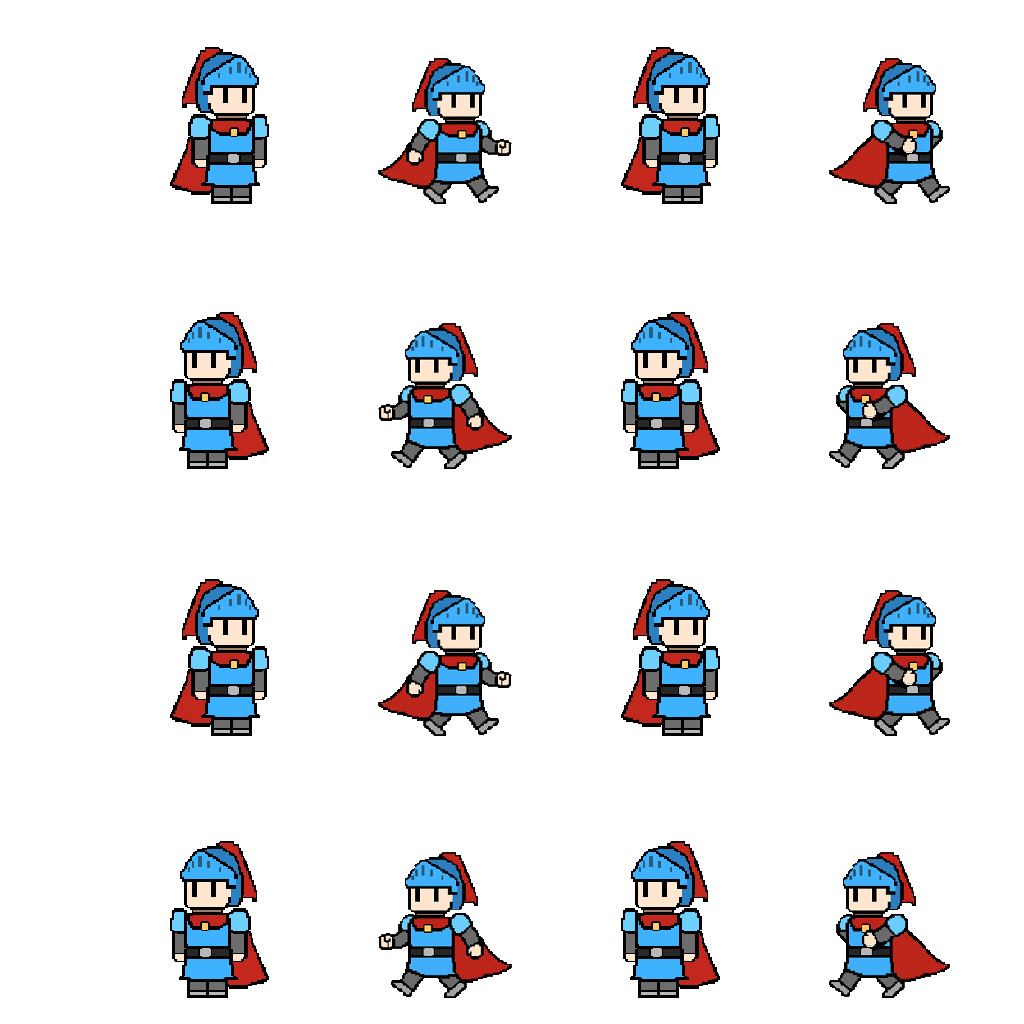
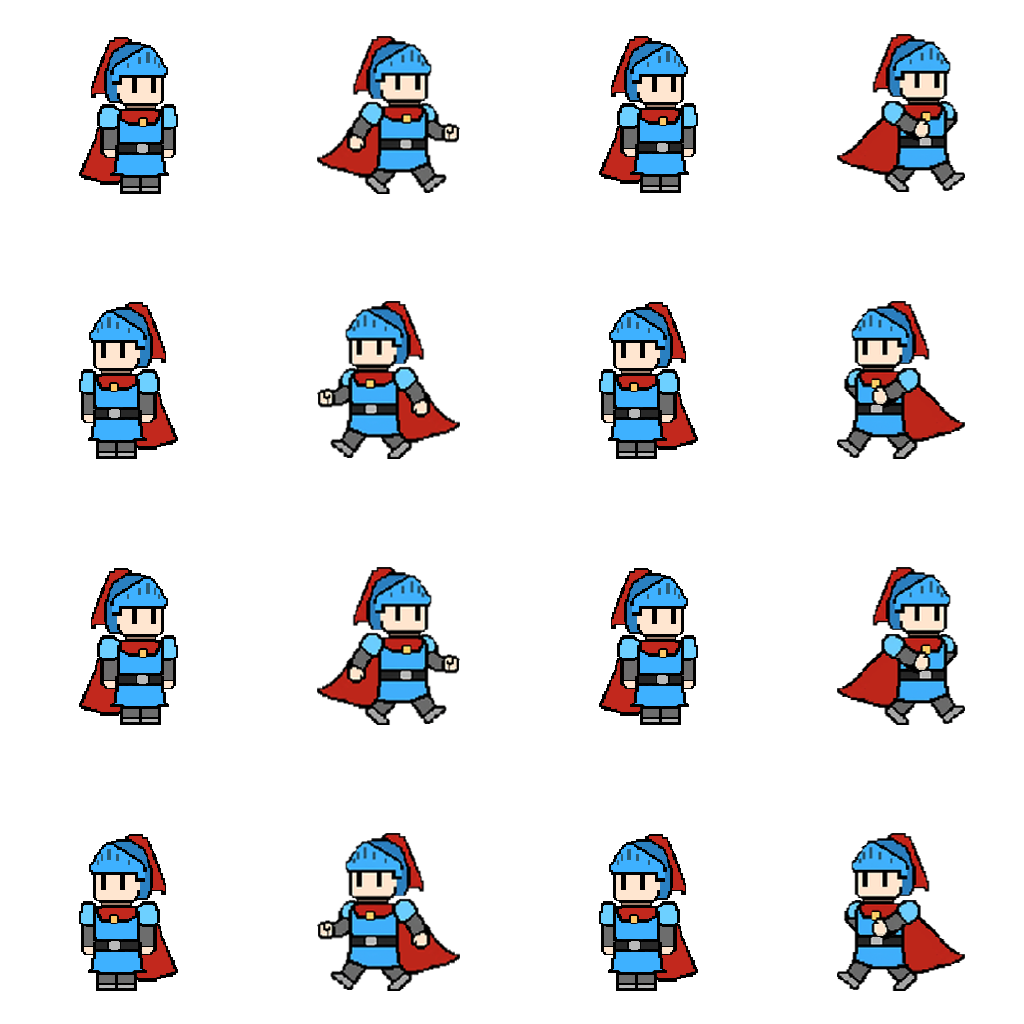
Enemyのidleとmove状態のアニメーションを追加

diff --git a/Source/Player.cpp b/Source/Player.cpp
@@ -201,11 +201,11 @@ void Player::Draw()
 		const int srcX = mCurrentFrame * FRAME_WIDTH;
 
 		// 向きに応じた基本の Y 座標を設定する
-		int srcY = 481; // 右向きの画像座標 768  idle用:618
+		int srcY = 471; // 右向きの画像座標 768  idle用:618
 
 		if (!isFacingRight)
 		{
-			srcY = 744; // 左向きの画像座標 512  idle用:962
+			srcY = 733; // 左向きの画像座標 512  idle用:962
 		}
 
 		// ダメージ中なら赤く変色させる
